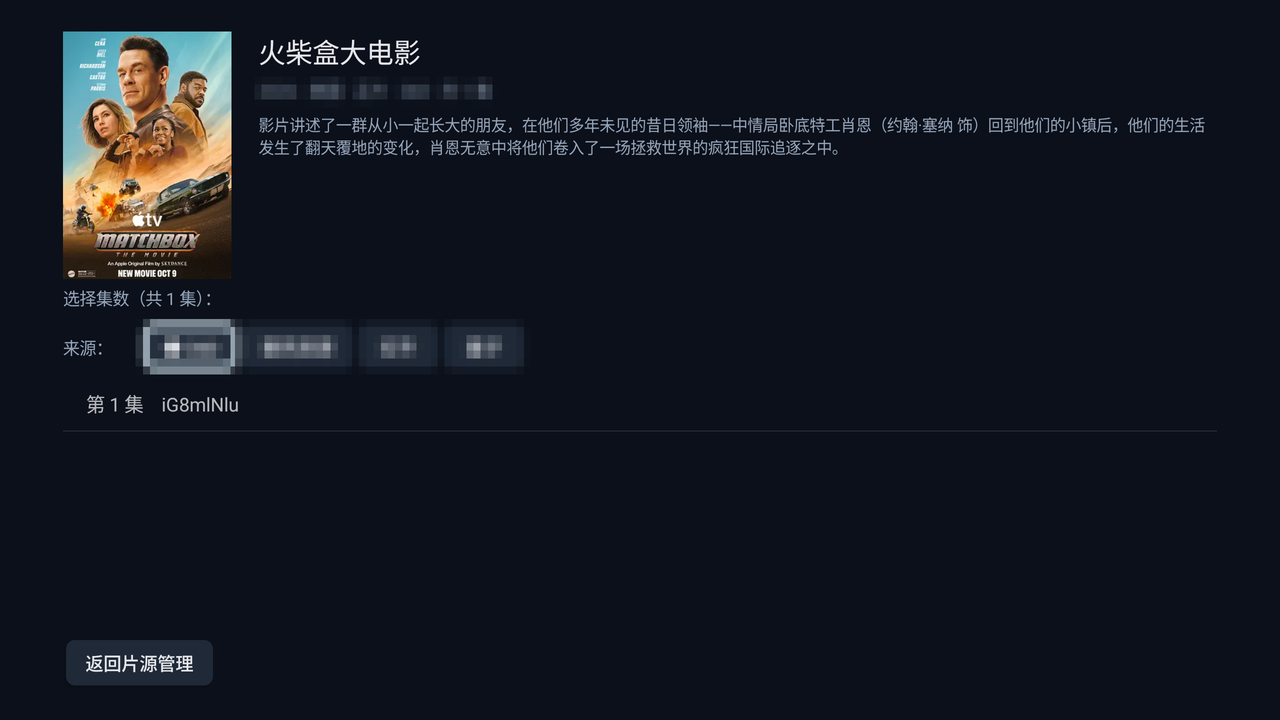
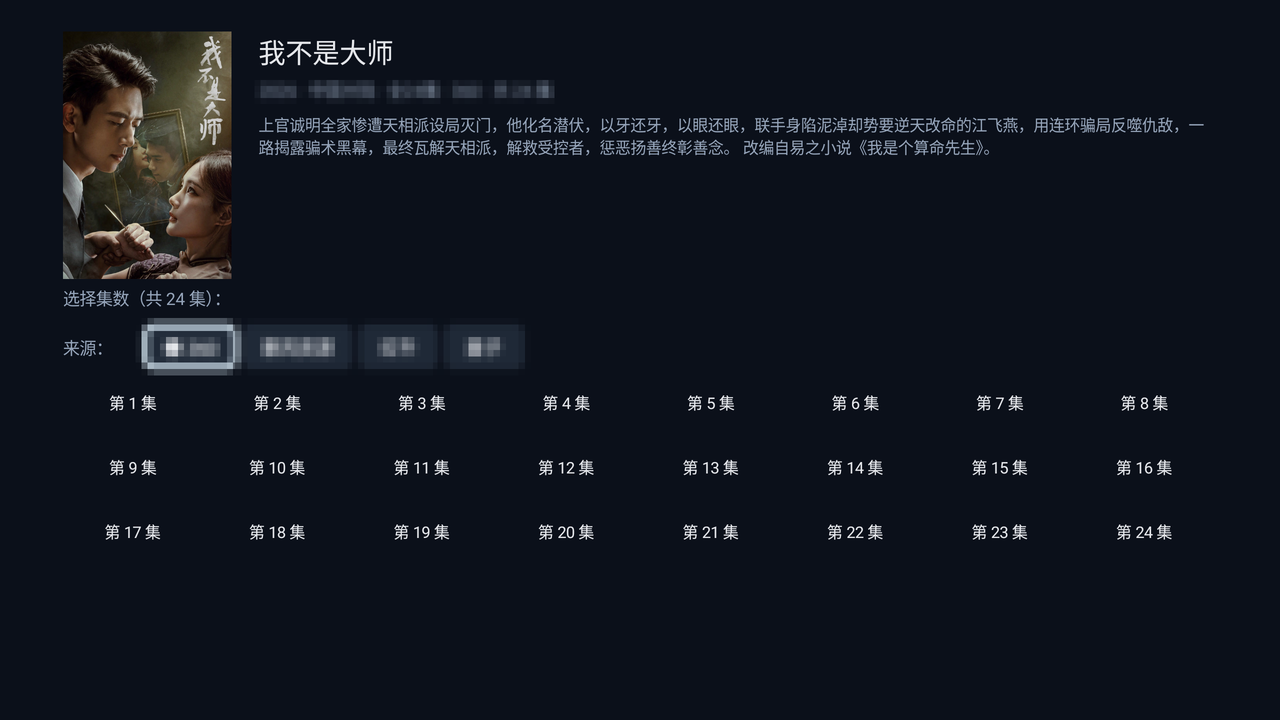
docs: 更新 v1.2.0 界面截图

diff --git a/README.md b/README.md
@@ -51,9 +51,13 @@
 
 ![首页](docs/screenshot-home.png)
 
-### 详情
+### 详情与集数选择
 
 ![详情](docs/screenshot-detail.png)
+
+### 添加片源
+
+![添加片源](docs/screenshot-addsource.png)
 
 ### 扫码添加片源
 
